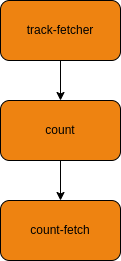
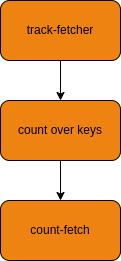
update files

Changed region(s): [[0.1488, 0.4598, 0.6198, 0.5211], [0.6446, 0.4598, 0.843, 0.5517]]

diff --git a/tiny-url/counter/src/main/java/com/bakdata/quick/examples/tinyurl/counter/CounterApplication.java b/tiny-url/counter/src/main/java/com/bakdata/quick/examples/tinyurl/counter/CounterApplication.java
@@ -1,7 +1,6 @@
 package com.bakdata.quick.examples.tinyurl.counter;
 
 import com.bakdata.kafka.KafkaStreamsApplication;
-import java.util.Arrays;
 import org.apache.kafka.common.serialization.Serdes;
 import org.apache.kafka.streams.StreamsBuilder;
 import org.apache.kafka.streams.kstream.Consumed;
@@ -15,12 +14,13 @@ public class CounterApplication extends KafkaStreamsApplication {
     private static final Logger logger = LoggerFactory.getLogger(CounterApplication.class);
 
     public static void main(final String[] args) {
-        logger.info("Starting counter application with args:{}", Arrays.toString(args));
+        logger.info("Starting counter application");
         KafkaStreamsApplication.startApplication(new CounterApplication(), args);
     }
 
     @Override
     public void buildTopology(final StreamsBuilder builder) {
+        logger.info("Setting input topic: {}", this.getInputTopic());
 
         final KStream<String, String> inputStream =
                 builder.stream(this.getInputTopic(), Consumed.with(Serdes.String(), Serdes.String()));

diff --git a/tiny-url/counter/README.md b/tiny-url/counter/README.md
@@ -1,37 +1,38 @@
-# Tiny URL Counter Application
+# TinyURL Counter Application
 
 This a simple Kafka Streams Application demonstrating the custom application deployment of quick. This application
 counts the keys of the input topic and writes a key value pair containing the key and its count to the output topic.
-Concretely, we want to count the number of tiny-urls (keys) that users are retrieving. For more information on how to
+Concretely, we want to count the number of TinyURLs (keys) that users are retrieving. For more information on how to
 build a Kafka Streams Application, please visit the
 [streams-bootstrap repository](https://github.com/bakdata/streams-bootstrap).
 
 ## Topology
 
-The counter application has a simple toplogy. The topology contains a source topic (let's call it `track-fetcher`) and a
-sink topic (let's call it `count-fetcher`)
+The counter application has a simple topology, which is demonstrated in the diagram below. The input-topic `track-fetch`
+has a key type of `String` and a value type of `String`. The value is always an empty string. The output
+topic `count-fetch` has a key of type `String` and value type of `Long`. Whenever a user fetches a TinyURL the key is
+ingested in the `track-fetch` topic. The application creates a count over the keys in the input topic and writes the
+values in the `count-fetch`, which represents the number of times users fetched a TinyURL.
+
 <p align="center">
- <img src="https://github.com/bakdata/quick/tree/master/docs/examples/TinyURL/TinyUrlTopology.png" />
+ <img src="https://github.com/bakdata/quick-examples/tree/master/tiny-url/TinyUrlTopology.png" />
 </p>
-
-## Usage
-The application can be deployed using [helm](https://helm.sh/):
-
-```shell
-quick app deploy tiny-url-counter \
---registry us.gcr.io/d9p-quick/demo \
---image tiny-url-counter \
---tag 1.0.0 \
---args input-topics=track-fetch output-topic=count-fetch productive=false
-```
-
-The input-topic (track-fetch) has a key type of `String` and a value type of `String`. The value is always an empty
-string. The output topic has a key of type `String` and value type of `Long`. Every time a key-value pair is ingested in
-the input topic, the output topic gets updated respectively. Each pair in the output topic show how many times a user
-queries a key (tiny-url).
 
 ## Deployment
 
-We use the [Google Jib](https://github.com/GoogleContainerTools/jib) plugin to containerize and create an image of the
-application. The container is hosted in `us.gcr.io/d9p-quick/demo/tiny-url-counter`
-and the image version is based on the program version defined in the `build.gradle.kts` file.
+The application can be deployed using [helm](https://helm.sh/). It uses
+the [streams-bootsrap helm chart](https://github.com/bakdata/streams-bootstrap/tree/master/charts/streams-app):
+
+```shell
+helm upgrade --install --kube-context <YOUR_CONTEXT> --namespace <YOUR_NAMESPACE> --values deployment/values.yaml tiny-url-counter-app streams-bootstrap/streams-app
+```
+
+You should change the values
+in [values.yaml](https://github.com/bakdata/quick/tree/master/docs/examples/TinyURL/counter/deployment/values.yaml) file
+based on your infrastructure.
+
+To uninstall the application just run:
+
+```shell
+helm uninstall --kube-context <YOUR_CONTEXT> --namespace <YOUR_NAMESPACE> tiny-url-counter-app
+```
